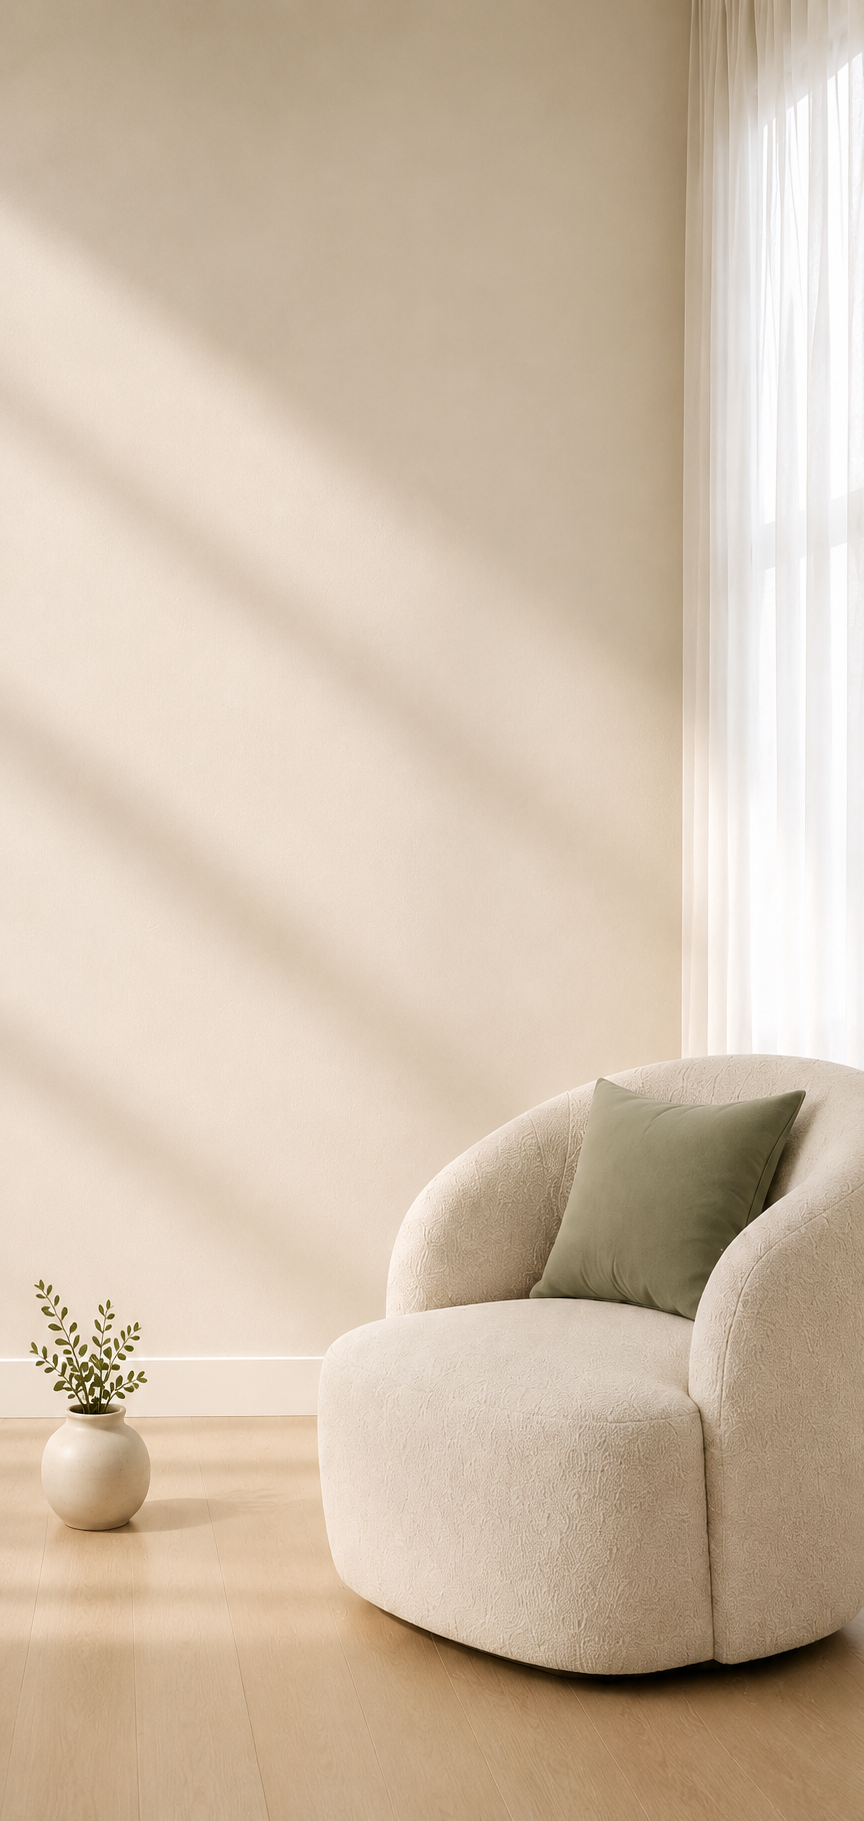
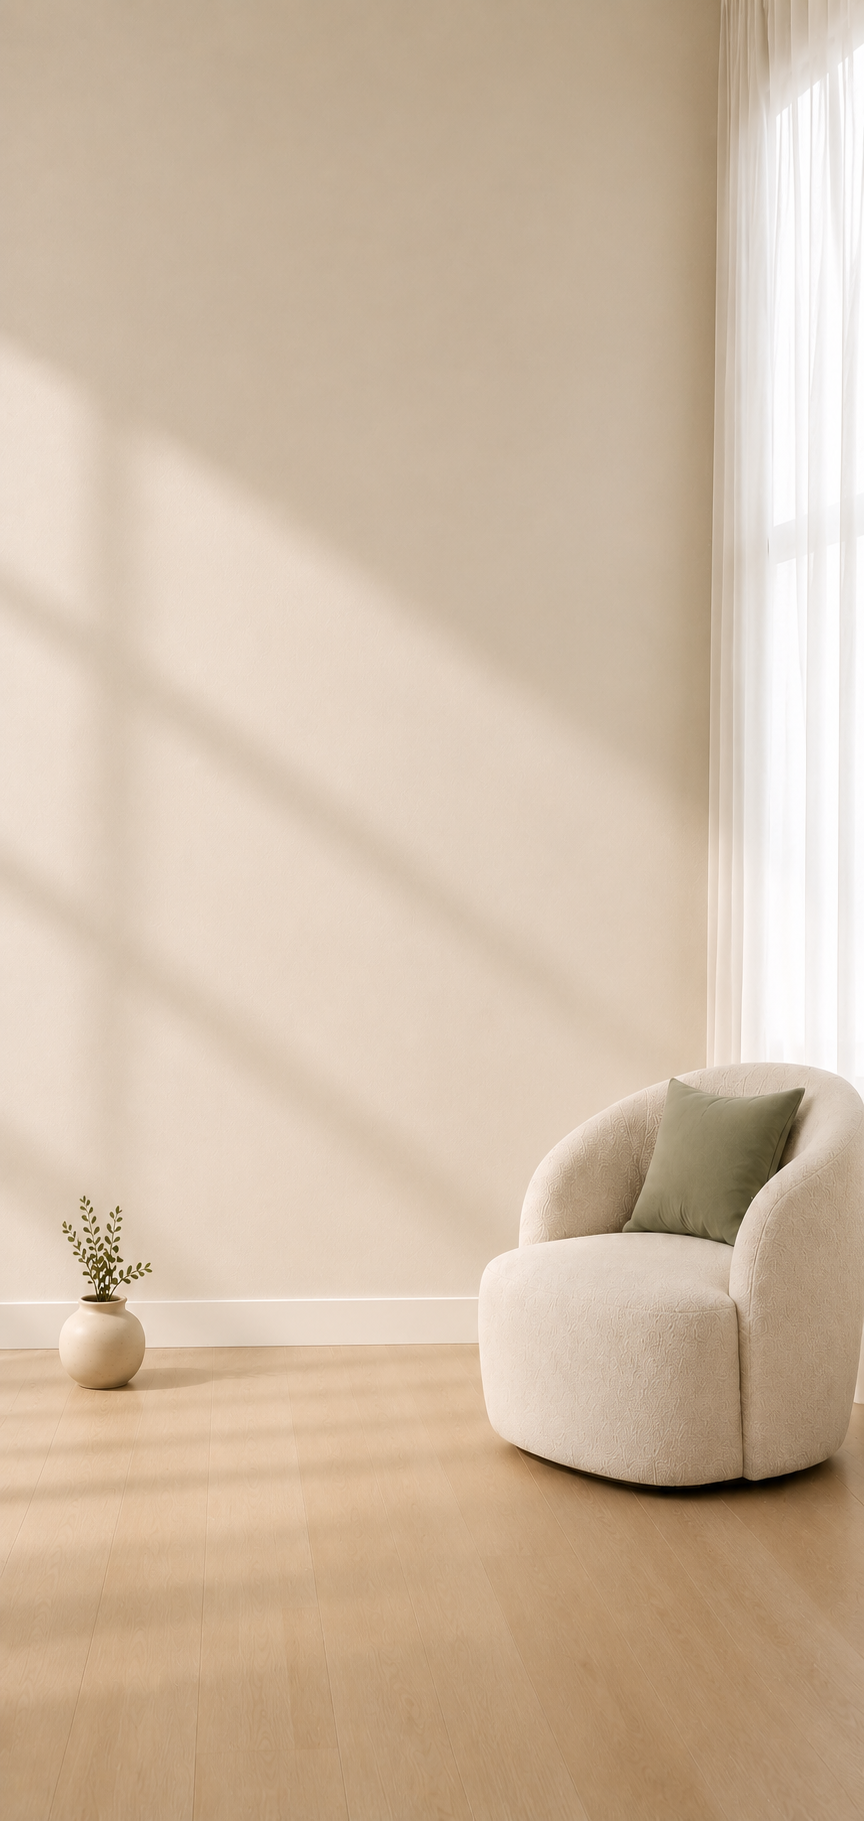
Update mobile hero photo, clean up unused hero image files
Removed old unreferenced hero images (hero.png, hero-room.png,
hero-greenroom.png, hero-greenroom-mobile.png, hero-mobile.png, and the
original pexels leaf photo) now that hero-warm/hero-warmmobile are the
only ones in use. Fixed a stale preload hint and portrait onerror
fallback that still pointed at the deleted leaf photo.

diff --git a/index-vi.html b/index-vi.html
@@ -204,7 +204,7 @@
         <img src="img/main.webp"
              alt="Alice Tran, PMHNP-BC, thạc sĩ điều dưỡng chuyên khoa tâm thần tại Fairfax, Virginia."
              class="portrait__art"
-             onerror="this.src='img/pexels-eduraw-34933961.jpg'" />
+             onerror="this.src='img/alice-portrait.webp'" />
       </div>
       <div class="portrait__caption">Xin chào, tôi là Alice. Mọi người đều được chào đón ở đây.</div>
     </div>

diff --git a/index.html b/index.html
@@ -15,7 +15,7 @@
   <title>Alice Tran, PMHNP | In-Person &amp; Telehealth Psychiatry in Fairfax, VA</title>
   <meta name="description" content="Board-certified psychiatric nurse practitioner (PMHNP-BC) offering in-person appointments at our Fairfax, VA office and telehealth across Virginia. Psychiatric evaluations, ADHD diagnosis, anxiety and depression treatment. English &amp; Vietnamese." />
   <meta name="keywords" content="psychiatrist Northern Virginia, psychiatric evaluation Fairfax VA, ADHD diagnosis Northern Virginia, anxiety treatment Virginia, depression treatment Northern Virginia, Vietnamese psychiatrist DMV, telehealth mental health Virginia, PMHNP Northern Virginia, psychiatric nurse practitioner Fairfax, mental health provider NoVA" />
-  <link rel="preload" as="image" href="img/pexels-eduraw-34933961.webp" type="image/webp" fetchpriority="high" />
+  <link rel="preload" as="image" href="img/hero-warm.png" fetchpriority="high" />
   <link rel="preload" as="image" href="img/alice-portrait.webp" type="image/webp" />
   <link rel="stylesheet" href="css/styles.css" />
   <link rel="preload" href="css/fonts.css" as="style" onload="this.onload=null;this.rel='stylesheet'">